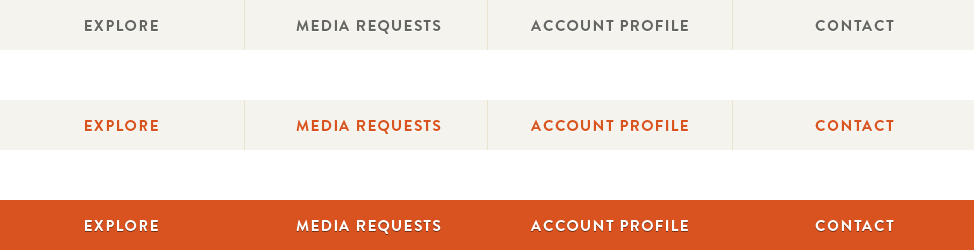
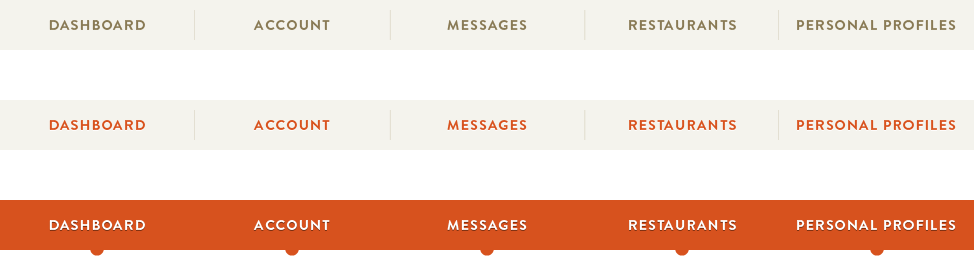
Updating nav tabs for logged-in media.

diff --git a/app/stylesheets/redesign/_css/spoonfeed.scss b/app/stylesheets/redesign/_css/spoonfeed.scss
@@ -252,7 +252,8 @@ em, i{
 	position: relative;
 	z-index: 100;
 	background: transparent url(/images/mediafeed/nav-bg.png) repeat-x;
-	height: 55px;
+	height: 60px;
+	overflow:hidden;
 	> span {
 	  position: relative;
 		display:block;
@@ -275,31 +276,35 @@ em, i{
 	}
 	a {
 		@include hiddentext;
-		height: 50px;
-		width: 243px;
+		height: 60px;
+		width: 195px;
 		float: left;
 		background: transparent url(/images/mediafeed/nav-loggedin.png) no-repeat;
-		&#nav_explore {
+		&#nav_dashboard {
 			background-position: 0 0;
 			&:hover {background-position: 0 -100px;}
 			&.selected {background-position: 0 -200px;}
 		}
-		&#nav_requests {
-			width: 244px;
-			background-position: -244px 0;
-			&:hover {background-position: -244px -100px;}
-			&.selected {background-position: -244px -200px;}
-		}
 		&#nav_profile {
-			width: 244px;
-			background-position: -490px 0;
-			&:hover {background-position: -490px -100px;}
-			&.selected {background-position:-490px -200px;}
+			background-position: -195px 0;
+			&:hover {background-position: -195px -100px;}
+			&.selected {background-position: -195px -200px;}
 		}
-		&#nav_contact {
-			background-position: -734px 0;
-			&:hover {background-position: -734px -100px;}
-			&.selected {background-position:-734px -200px;}
+		&#nav_requests {
+		  width: 194px;
+			background-position: -390px 0;
+			&:hover {background-position: -390px -100px;}
+			&.selected {background-position: -390px -200px;}
+		}
+		&#nav_restaurants {
+			background-position: -584px 0;
+			&:hover {background-position: -584px -100px;}
+			&.selected {background-position:-584px -200px;}
+		}
+		&#nav_directory {
+			background-position: -779px 0;
+			&:hover {background-position: -779px -100px;}
+			&.selected {background-position: -779px -200px;}
 		}
 		&.selected {
 		  + a.count {

diff --git a/db/schema.rb b/db/schema.rb
@@ -213,8 +213,8 @@ ActiveRecord::Schema.define(:version => 20110920181709) do
     t.date     "date_ended"
     t.string   "chef_name",       :default => "",    :null => false
     t.boolean  "chef_is_me",      :default => false, :null => false
-    t.text     "cuisine",                            :null => false
-    t.text     "notes",                              :null => false
+    t.text     "cuisine",         :default => "",    :null => false
+    t.text     "notes",           :default => "",    :null => false
     t.datetime "created_at"
     t.datetime "updated_at"
     t.boolean  "opening_staff",   :default => false
@@ -297,9 +297,9 @@ ActiveRecord::Schema.define(:version => 20110920181709) do
     t.integer  "restaurant_role_id"
     t.boolean  "omniscient"
     t.boolean  "primary",              :default => false
+    t.string   "type"
     t.boolean  "public_profile",       :default => true
     t.integer  "position"
-    t.string   "type"
     t.string   "solo_restaurant_name"
   end
 
@@ -339,6 +339,8 @@ ActiveRecord::Schema.define(:version => 20110920181709) do
     t.datetime "created_at"
     t.datetime "updated_at"
   end
+
+  add_index "feed_categories", ["id"], :name => "index_feed_categories_on_id", :unique => true
 
   create_table "feed_entries", :force => true do |t|
     t.string   "title"
@@ -610,8 +612,8 @@ ActiveRecord::Schema.define(:version => 20110920181709) do
     t.string   "country",            :default => "", :null => false
     t.date     "date_started",                       :null => false
     t.date     "date_ended"
-    t.text     "responsibilities",                   :null => false
-    t.text     "reason_for_leaving",                 :null => false
+    t.text     "responsibilities",   :default => "", :null => false
+    t.text     "reason_for_leaving", :default => "", :null => false
     t.datetime "created_at"
     t.datetime "updated_at"
   end
@@ -667,7 +669,7 @@ ActiveRecord::Schema.define(:version => 20110920181709) do
     t.string   "title"
     t.datetime "created_at"
     t.datetime "updated_at"
-    t.integer  "position",          :default => 0
+    t.integer  "position"
     t.integer  "chapter_id"
     t.text     "roles_description"
   end
@@ -687,7 +689,7 @@ ActiveRecord::Schema.define(:version => 20110920181709) do
     t.datetime "created_at"
     t.datetime "updated_at"
     t.string   "headline",              :default => ""
-    t.text     "summary"
+    t.text     "summary",               :default => ""
     t.string   "hometown"
     t.string   "current_residence"
     t.integer  "metropolitan_area_id"
